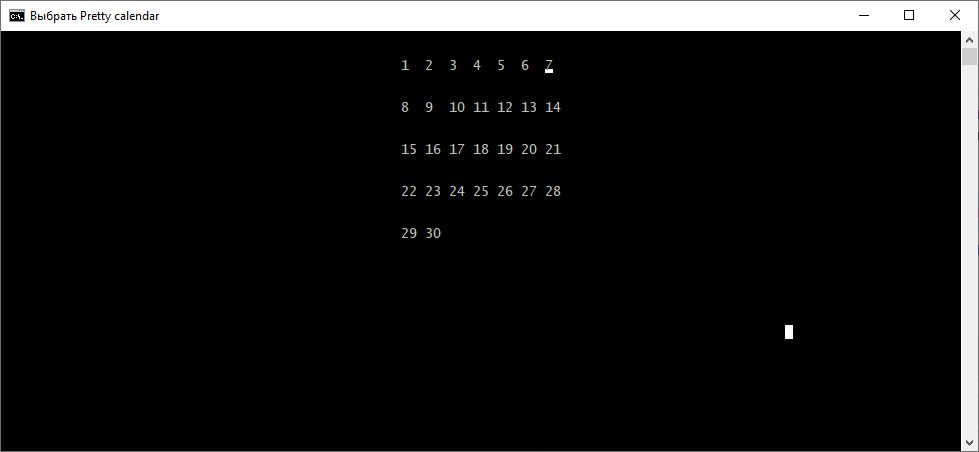
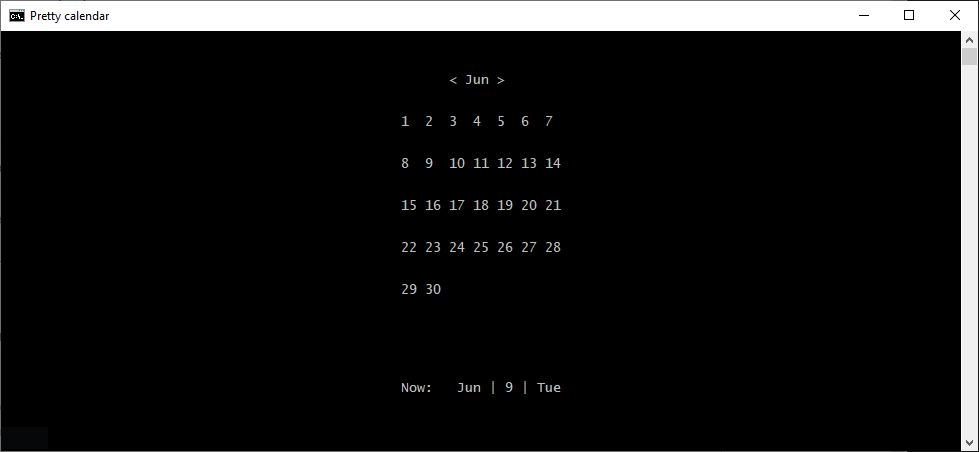
new design.

diff --git a/src/calendar.c b/src/calendar.c
@@ -21,7 +21,18 @@ typedef struct
 CalendarDays calendarDays;
 HANDLE HStdOut;
 CONSOLE_SCREEN_BUFFER_INFO CsbInfo;
+char WeekDays[7][3] = {"Mon", "Tue", 
+                       "Wed", "Thu", 
+                       "Fri", "Sat", 
+                       "Sun"};
 
+char Months[12][3] = {"Jan", "Feb", "Mar", 
+                      "Apr", "May", "Jun", 
+                      "Jul", "Aug", "Sep", 
+                      "Oct", "Nov", "Dec"};
+
+void drawCurrentDayMonthYear();
+void drawTitleMonth(WORD month);
 void moveCursor();
 void installCursors();
 void redrawNumber();
@@ -31,6 +42,31 @@ void fillCalendarDays(short daysNumber);
 COORD getStartPosition();
 ConsoleSize getConsoleSize();
 void drawMonthByDays(COORD startPosition);
+
+void drawCurrentDayMonthYear()
+{
+    SYSTEMTIME date = getDate();
+    COORD cursor;
+    cursor.X = 50;
+    cursor.Y = 25;
+
+    SetConsoleCursorPosition(HStdOut, cursor);
+    
+    printf("Now:   ");
+    printf("%c%c%c | ", Months[date.wMonth-1][0], Months[date.wMonth-1][1], Months[date.wMonth-1][2]);
+    printf("%d | ", date.wDay);
+    printf("%c%c%c", WeekDays[date.wDayOfWeek-1][0], WeekDays[date.wDayOfWeek-1][1], WeekDays[date.wDayOfWeek-1][2]);
+}
+
+void drawTitleMonth(WORD month)
+{
+    COORD cursor;
+    cursor.X = 56;
+    cursor.Y = 3;
+    SetConsoleCursorPosition(HStdOut, cursor);
+
+    printf("< %c%c%c >", Months[month-1][0], Months[month-1][1], Months[month-1][2]);
+}
 
 void moveCursor()
 {
@@ -133,7 +169,7 @@ COORD getStartPosition()
     short x = (startPosition.X / 2) / 2;
     startPosition.X += x*3;
 
-    startPosition.Y = 2;
+    startPosition.Y = 6;
 
     return startPosition;
 }

diff --git a/src/main.c b/src/main.c
@@ -9,11 +9,14 @@
 #include "calendar.c"
 
 
-
 void main()
 {   
+    SYSTEMTIME date = getDate();
+    
     SetConsoleTitle("Pretty calendar");
     runFillDaysInMonths();
     drawCalendar();
+    drawCurrentDayMonthYear();
+    drawTitleMonth(date.wMonth);
     moveCursor();
 }
